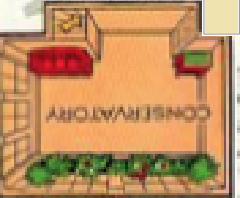
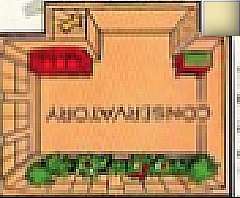
changed board design and make move changes

Changed region(s): [[0.0, 0.0, 1.0, 1.0], [0.6125, 0.1818, 0.6708, 0.2121], [0.5542, 0.1212, 0.5833, 0.1515]]

diff --git a/frontend/js/boardlayout.js b/frontend/js/boardlayout.js
@@ -1,29 +1,34 @@
+
+
 var c = document.getElementById("myCanvas");
 var ctx = c.getContext("2d");
+var canvas = ctx.canvas;
 
 ctx.canvas.width  = 960;
 ctx.canvas.height = 960;
 
+document.onmouseup=getXYPosition;
+
+ctx.shadowBlur = 20;
+ctx.shadowColor = "black";
 
 // Create gradient
 var grd = ctx.createLinearGradient(0,0,2000,2000);
 grd.addColorStop(0,"white");
-grd.addColorStop(1,"white");
+grd.addColorStop(1,"crimson");
 // Fill with gradient
 ctx.fillStyle = grd;
 ctx.fillRect(0,0,1100,1100);
 
-for(let i=0;i<960;i+=40){
-    for(let j=0;j<960;j+=40){
-        let tile = new Image();
-        tile.src = 'images/Tile.png';
-        tile.onload = function() {
+var tile = new Image();
+tile.src = 'images/Tile.png';
+tile.onload = function() {
+    for(let i=0;i<960;i+=40){
+        for(let j=0;j<960;j+=40){
             ctx.drawImage(tile,i,j);
         }
     }
 }
-
-
 
 var kitchen = new Image();
 kitchen.src = 'images/Kitchen.png';
@@ -55,8 +60,6 @@ hall.src = 'images/Hall.png';
 hall.onload = function() {
     ctx.drawImage(hall,360,0);
 }
-
-
 var study = new Image();
 study.src = 'images/Study.png';
 study.onload = function() {
@@ -76,4 +79,71 @@ var cellar = new Image();
 cellar.src = 'images/Cellar.png';
 cellar.onload = function() {
     ctx.drawImage(cellar,360,320);
+}
+
+draw();
+
+function draw(){
+
+    ctx.beginPath();
+    ctx.arc(940, 260, 15, 0, 2 * Math.PI);
+    ctx.stroke();
+    ctx.fillStyle = "yellow";
+    ctx.fill();
+    ctx.closePath();
+    setInterval(redraw, 1000);
+
+}
+
+function redraw() {
+
+    //ctx.clearRect(0, 0, canvas.width, canvas.height);
+    const context = canvas.getContext('2d');
+    context.clearRect(0, 0, canvas.width, canvas.height);
+
+    
+    for(let i=0;i<960;i+=40){
+        for(let j=0;j<960;j+=40){
+            ctx.drawImage(tile,i,j);
+        }
+    }
+
+    ctx.drawImage(kitchen,720,720);
+    ctx.drawImage(ballroom,320,640);
+    ctx.drawImage(conservatory,0,760);
+    ctx.drawImage(diningRoom,680,320);
+    ctx.drawImage(lounge,685,0);
+    ctx.drawImage(hall,360,0);
+    ctx.drawImage(study,0,0);
+    ctx.drawImage(billiard,0,480);
+    ctx.drawImage(library,0,240);
+    ctx.drawImage(cellar,360,320);
+
+    ctx.beginPath();
+    ctx.arc(900, 260, 15, 0, 2 * Math.PI);
+    ctx.stroke();
+    ctx.fillStyle = "yellow";
+    ctx.fill();
+    ctx.closePath();
+
+}
+
+
+// Cursor coordinate functions
+var myX, myY, xyOn, myMouseX, myMouseY;
+xyOn = true;
+function getXYPosition(e){
+myMouseX=(e||event).clientX;
+myMouseY=(e||event).clientY;
+if (document.documentElement.scrollTop > 0) {
+myMouseY = myMouseY + document.documentElement.scrollTop;
+}
+if (xyOn) {
+alert("X is " + myMouseX + "\nY is " + myMouseY);
+}
+}
+function toggleXY() {
+xyOn = !xyOn;
+document.getElementById('xyLink').blur();
+return false;
 }

diff --git a/frontend/js/die.js b/frontend/js/die.js
@@ -1,0 +1,85 @@
+
+
+var imported = document.createElement('script');
+imported.src = 'https://unpkg.com/konva@7.0.3/konva.min.js';
+document.head.appendChild(imported);
+
+var dieCanvas = document.getElementById("dieCanvas");
+var context = dieCanvas.getContext("2d");
+
+
+const newLocal = 480;
+dieCanvas.style.x = newLocal;
+dieCanvas.style.y = newLocal;
+
+context.canvas.width  = 600;
+context.canvas.height = 600;
+
+context.shadowBlur = 20;
+context.shadowColor = "white";
+context.fillStyle = "#8a3760";
+
+const rectX = 0;
+const rectY = 0;
+const rectWidth = 80;
+const rectHeight = 90;
+
+context.fillRect(rectX, rectY, rectWidth, rectHeight);
+
+
+// Create gradient
+var grd = context.createLinearGradient(0,0,2000,2000);
+grd.addColorStop(0,"white");
+grd.addColorStop(1,"crimson");
+// Fill with gradient
+context.fillStyle = grd;
+//context.fillRect(0,0,1100,1100);
+
+//rolldie();
+
+//setInterval(rolldie,1000);
+
+
+//get random value between 1 and 6(inclusive)
+var dieValue = Math.floor(Math.random()*6) + 1; 
+
+displayDieValue();
+
+
+function displayDieValue(){
+    
+    let x = (rectWidth - rectX)/2 + rectX;
+    let y = (rectHeight - rectY)/2 + rectY + 10;
+
+    context.font = "50px Comic Sans MS";
+    context.fillStyle = "red";
+    context.textAlign = "center";
+    context.fillText(dieValue, x, y);
+}
+
+var startIndex = 1;
+
+function rolldie(){
+
+    //console.log('Hola');
+    //context.clearRect(0, 0, dieCanvas.width, dieCanvas.height);
+    
+    //Convert degrees to radian 
+    var rad = (10*startIndex) * Math.PI / 180;
+   
+    //Rotate the canvas around the origin
+    //context.rotate(rad);
+
+    context.shadowBlur = 20;
+    context.shadowColor = "white";
+    context.fillStyle = "#8a3760";
+
+    dieCanvas.style.transform = "scaleX(-1)";
+    //context.fillRect(0, 0, 80, 90);
+    startIndex++;
+    if(startIndex = 4){
+        startIndex = 1;
+    }
+
+}
+  

diff --git a/frontend/board.html b/frontend/board.html
@@ -12,21 +12,28 @@
 
 <div class="row">
 
-<div  class="col-7">
+  <div class="col-6">
     <canvas id="myCanvas">
-        Your browser does not support the HTML canvas tag.</canvas>
-</div>
+      Your browser does not support the HTML canvas tag.</canvas>
+  </div>
 
 
-<div class="col-4">
-    <h1>Game Information</h1>
+<div>
+  <div class="header col-5">
+    <h2>Game Information</h2>
+  </div>
+  
+  <div class="col-3" style="padding:300px">
+  <canvas id="dieCanvas">
+    Your browser does not support the HTML canvas tag.
+  </canvas>
   </div>
 
 </div>
 
+
 <script src="js\boardlayout.js"></script>
-
-
+<script src="js\die.js"></script>
 
 </body>
 </html>

diff --git a/frontend/css/board.css b/frontend/css/board.css
@@ -31,20 +31,36 @@ html {
 }
 
 .header {
-  background-color: #9933cc;
-  color: #ffffff;
+  background-color: #f5de0c;
+  color: #db0bca;
   padding: 15px;
 }
 
 #myCanvas{
-  width:80%;
-  height:80%
+  width:100%;
+  height:95%;
+  z-index:0;
+}
+
+#dieCanvas{
+  z-index:2;
+}
+
+.wrapper{
+  position: relative;
+  float: left;
 }
 
 .menu ul {
   list-style-type: none;
   margin: 0;
   padding: 0;
+}
+
+.rol-6 canvas {
+    position: absolute;
+    top: 0;
+    left: 0;
 }
 
 .menu li {
